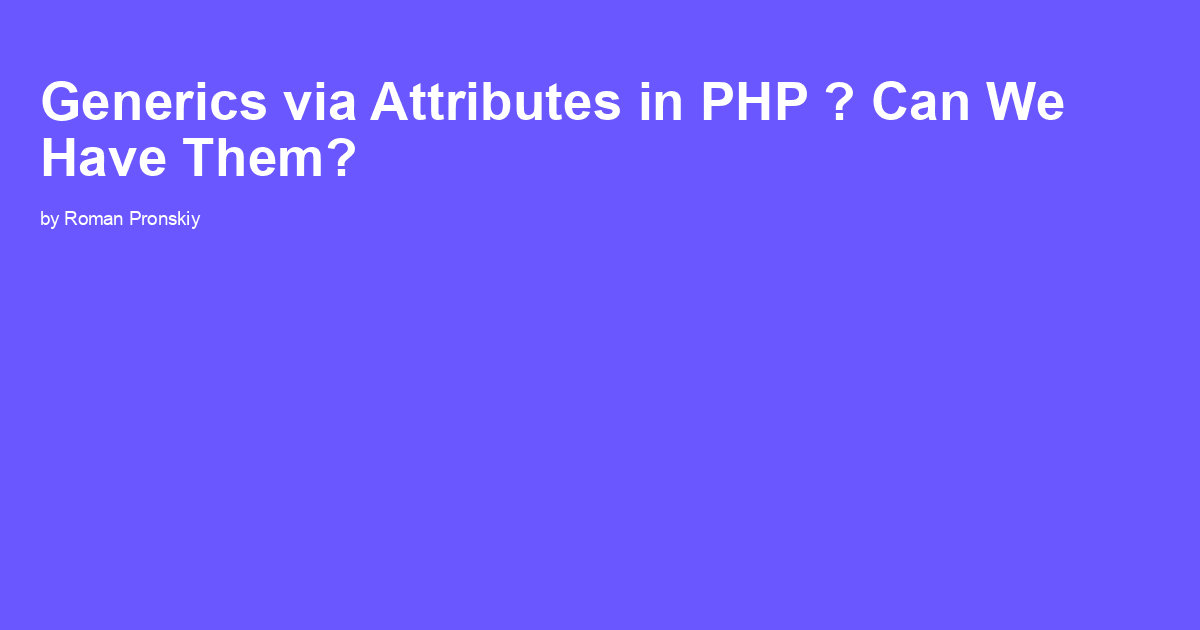
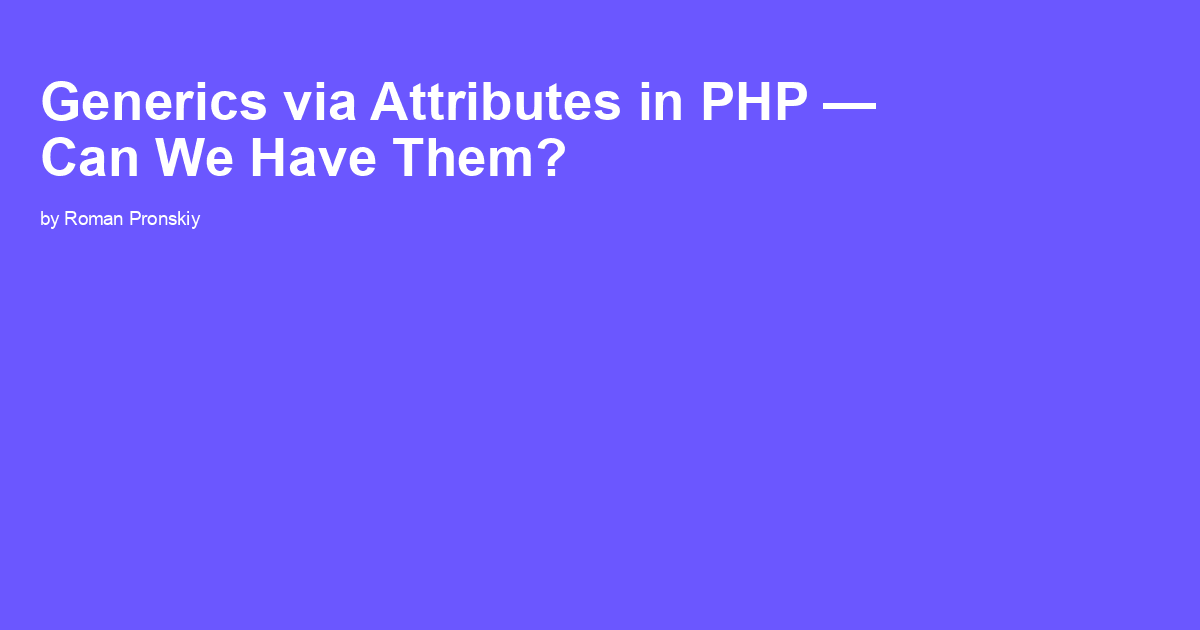
deploy: 6f489c3c9769b9b55b96fd63b69dfb2871d9f009

Changed region(s): [[0.0925, 0.2111, 0.4933, 0.3016], [0.6783, 0.1206, 0.8942, 0.2111], [0.0308, 0.2111, 0.0617, 0.3016]]

diff --git a/assets/css/app.css b/assets/css/app.css
@@ -1,1 +1,1 @@
-/*! tailwindcss v3.0.24 | MIT License | https://tailwindcss.com*/*,:after,:before{box-sizing:border-box;border:0 solid #e5e7eb}:after,:before{--tw-content:""}html{line-height:1.5;-webkit-text-size-adjust:100%;-moz-tab-size:4;-o-tab-size:4;tab-size:4;font-family:ui-sans-serif,system-ui,-apple-system,BlinkMacSystemFont,Segoe UI,Roboto,Helvetica Neue,Arial,Noto Sans,sans-serif,Apple Color Emoji,Segoe UI Emoji,Segoe UI Symbol,Noto Color Emoji}body{margin:0;line-height:inherit}hr{height:0;color:inherit;border-top-width:1px}abbr:where([title]){-webkit-text-decoration:underline dotted;text-decoration:underline dotted}h1,h2,h3,h4,h5,h6{font-size:inherit;font-weight:inherit}a{color:inherit;text-decoration:inherit}b,strong{font-weight:bolder}code,kbd,pre,samp{font-family:JetBrainsMono,Menlo,Monaco,Consolas,Liberation Mono,Courier New,monospace;font-size:1em}small{font-size:80%}sub,sup{font-size:75%;line-height:0;position:relative;vertical-align:initial}sub{bottom:-.25em}sup{top:-.5em}table{text-indent:0;border-color:inherit;border-collapse:collapse}button,input,optgroup,select,textarea{font-family:inherit;font-size:100%;line-height:inherit;color:inherit;margin:0;padding:0}button,select{text-transform:none}[type=button],[type=reset],[type=submit],button{-webkit-appearance:button;background-color:initial;background-image:none}:-moz-focusring{outline:auto}:-moz-ui-invalid{box-shadow:none}progress{vertical-align:initial}::-webkit-inner-spin-button,::-webkit-outer-spin-button{height:auto}[type=search]{-webkit-appearance:textfield;outline-offset:-2px}::-webkit-search-decoration{-webkit-appearance:none}::-webkit-file-upload-button{-webkit-appearance:button;font:inherit}summary{display:list-item}blockquote,dd,dl,figure,h1,h2,h3,h4,h5,h6,hr,p,pre{margin:0}fieldset{margin:0}fieldset,legend{padding:0}menu,ol,ul{list-style:none;margin:0;padding:0}textarea{resize:vertical}input::-moz-placeholder,textarea::-moz-placeholder{opacity:1;color:#9ca3af}input:-ms-input-placeholder,textarea:-ms-input-placeholder{opacity:1;color:#9ca3af}input::placeholder,textarea::placeholder{opacity:1;color:#9ca3af}[role=button],button{cursor:pointer}:disabled{cursor:default}audio,canvas,embed,iframe,img,object,svg,video{display:block;vertical-align:middle}img,video{max-width:100%;height:auto}[hidden]{display:none}body{box-sizing:border-box;font-family:ui-sans-serif,system-ui,-apple-system,BlinkMacSystemFont,Segoe UI,Roboto,Helvetica Neue,Arial,Noto Sans,sans-serif,Apple Color Emoji,Segoe UI Emoji,Segoe UI Symbol,Noto Color Emoji;--tw-text-opacity:1;color:rgb(82 82 91/var(--tw-text-opacity))}html{min-height:100vh}h1,h2,h3,h4{margin-bottom:2rem;margin-top:2rem;--tw-text-opacity:1;color:rgb(39 39 42/var(--tw-text-opacity))}h1{font-size:3rem;line-height:1.25}h1,h2{text-align:center;font-weight:700}h2{font-size:1.875rem;line-height:2.25rem}h3{font-size:1.5rem;line-height:2rem}h3,h4{font-weight:700}h4{font-size:1.25rem;line-height:1.75rem}ol,p,ul{padding-bottom:2rem}li,p{font-size:1.2rem;font-weight:400;line-height:1.625;--tw-text-opacity:1;color:rgb(39 39 42/var(--tw-text-opacity))}ul{list-style-type:disc}ol,ul{margin-bottom:1rem;margin-left:1.25rem;list-style-position:outside}ol{list-style-type:decimal}blockquote{--tw-bg-opacity:1;background-color:rgb(254 252 232/var(--tw-bg-opacity))}blockquote p{padding:1rem 1rem 1rem 2rem}a{--tw-text-opacity:1;color:rgb(37 99 235/var(--tw-text-opacity));-webkit-text-decoration-line:underline;text-decoration-line:underline}a:hover,a:visited:hover{--tw-text-opacity:1;color:rgb(161 161 170/var(--tw-text-opacity))}figure{margin-left:auto;margin-right:auto;align-content:center;text-align:center}figure img{display:inline-block}figcaption,figcaption a{--tw-text-opacity:1;color:rgb(161 161 170/var(--tw-text-opacity))}code,figure,iframe{margin-bottom:3rem}*,:after,:before{--tw-translate-x:0;--tw-translate-y:0;--tw-rotate:0;--tw-skew-x:0;--tw-skew-y:0;--tw-scale-x:1;--tw-scale-y:1;--tw-pan-x: ;--tw-pan-y: ;--tw-pinch-zoom: ;--tw-scroll-snap-strictness:proximity;--tw-ordinal: ;--tw-slashed-zero: ;--tw-numeric-figure: ;--tw-numeric-spacing: ;--tw-numeric-fraction: ;--tw-ring-inset: ;--tw-ring-offset-width:0px;--tw-ring-offset-color:#fff;--tw-ring-color:#3b82f680;--tw-ring-offset-shadow:0 0 #0000;--tw-ring-shadow:0 0 #0000;--tw-shadow:0 0 #0000;--tw-shadow-colored:0 0 #0000;--tw-blur: ;--tw-brightness: ;--tw-contrast: ;--tw-grayscale: ;--tw-hue-rotate: ;--tw-invert: ;--tw-saturate: ;--tw-sepia: ;--tw-drop-shadow: ;--tw-backdrop-blur: ;--tw-backdrop-brightness: ;--tw-backdrop-contrast: ;--tw-backdrop-grayscale: ;--tw-backdrop-hue-rotate: ;--tw-backdrop-invert: ;--tw-backdrop-opacity: ;--tw-backdrop-saturate: ;--tw-backdrop-sepia: }.container{width:100%}@media (min-width:640px){.container{max-width:640px}}@media (min-width:768px){.container{max-width:768px}}@media (min-width:1024px){.container{max-width:1024px}}@media (min-width:1280px){.container{max-width:1280px}}.nav-org{color:#0f172ab3}.nav-org:after{margin-left:.125rem;margin-right:.125rem;transition-duration:.3s;--tw-content:"\2197";content:var(--tw-content)}.nav-org:hover{border-bottom-width:1px;border-style:solid;--tw-border-opacity:1;border-color:rgb(15 23 42/var(--tw-border-opacity));-webkit-text-decoration-line:none;text-decoration-line:none}.nav-org:hover,.nav-org:hover:after{--tw-text-opacity:1;color:rgb(15 23 42/var(--tw-text-opacity))}.nav-org:hover:after{margin-left:.25rem;margin-right:0;content:var(--tw-content)}.-mx-2{margin-left:-.5rem;margin-right:-.5rem}.mx-2{margin-left:.5rem;margin-right:.5rem}.my-5{margin-top:1.25rem;margin-bottom:1.25rem}.mb-16{margin-bottom:4rem}.mb-4{margin-bottom:1rem}.mb-1{margin-bottom:.25rem}.mb-2{margin-bottom:.5rem}.mb-5{margin-bottom:1.25rem}.mb-8{margin-bottom:2rem}.mt-3{margin-top:.75rem}.mt-24{margin-top:6rem}.block{display:block}.flex{display:flex}.min-h-\[100vh\]{min-height:100vh}.w-full{width:100%}.w-1\/2{width:50%}.min-w-\[320px\]{min-width:320px}.max-w-2xl{max-width:42rem}.max-w-3xl{max-width:48rem}.flex-row{flex-direction:row}.flex-col{flex-direction:column}.justify-center{justify-content:center}.justify-between{justify-content:space-between}.space-x-1>:not([hidden])~:not([hidden]){--tw-space-x-reverse:0;margin-right:calc(.25rem*var(--tw-space-x-reverse));margin-left:calc(.25rem*(1 - var(--tw-space-x-reverse)))}.rounded{border-radius:.25rem}.border{border-width:1px}.border-t{border-top-width:1px}.bg-white{--tw-bg-opacity:1;background-color:rgb(255 255 255/var(--tw-bg-opacity))}.bg-\[\#7f52ff\]{--tw-bg-opacity:1;background-color:rgb(127 82 255/var(--tw-bg-opacity))}.p-2{padding:.5rem}.px-4{padding-left:1rem;padding-right:1rem}.px-2{padding-left:.5rem;padding-right:.5rem}.py-1{padding-top:.25rem;padding-bottom:.25rem}.pt-4{padding-top:1rem}.pt-5{padding-top:1.25rem}.text-center{text-align:center}.text-justify{text-align:justify}.text-xs{font-size:.75rem;line-height:1rem}.text-sm{font-size:.875rem;line-height:1.25rem}.text-base{font-size:1.2rem}.font-medium{font-weight:500}.font-bold{font-weight:700}.font-normal{font-weight:400}.\!text-white{--tw-text-opacity:1!important;color:rgb(255 255 255/var(--tw-text-opacity))!important}.text-gray-600{--tw-text-opacity:1;color:rgb(75 85 99/var(--tw-text-opacity))}.text-blue-500{--tw-text-opacity:1;color:rgb(59 130 246/var(--tw-text-opacity))}.no-underline{-webkit-text-decoration-line:none;text-decoration-line:none}.transition-all{transition-property:all;transition-timing-function:cubic-bezier(.4,0,.2,1);transition-duration:.15s}@font-face{font-family:JetBrainsMono;src:url(../fonts/JetBrainsMono-Regular.woff2)}:target{scroll-margin-top:64px}:target:before{content:"";display:block;margin-top:-64px;height:64px;width:1px}.footer-link{background-image:linear-gradient(180deg,#fff 100%,#0000 0);background-size:auto 0;background-repeat:repeat-x;transition:background-size .3s,color .3s}.footer-link:hover{background-size:auto calc(100% + 4px)}footer>p,footer>ul{padding:0}code{line-height:normal;background:#87837826;color:#eb5757;border-radius:3px;font-size:85%;padding:.2em .4em}.hover\:border-\[rgba\(127\2c 82\2c 255\2c \.8\)\]:hover{border-color:#7f52ffcc}.hover\:border-\[\#7f52ff\]:hover{--tw-border-opacity:1;border-color:rgb(127 82 255/var(--tw-border-opacity))}.hover\:bg-\[rgba\(127\2c 82\2c 255\2c \.8\)\]:hover{background-color:#7f52ffcc}@media (min-width:768px){.md\:px-0{padding-left:0;padding-right:0}}
+/*! tailwindcss v3.0.24 | MIT License | https://tailwindcss.com*/*,:after,:before{box-sizing:border-box;border:0 solid #e5e7eb}:after,:before{--tw-content:""}html{line-height:1.5;-webkit-text-size-adjust:100%;-moz-tab-size:4;-o-tab-size:4;tab-size:4;font-family:ui-sans-serif,system-ui,-apple-system,BlinkMacSystemFont,Segoe UI,Roboto,Helvetica Neue,Arial,Noto Sans,sans-serif,Apple Color Emoji,Segoe UI Emoji,Segoe UI Symbol,Noto Color Emoji}body{margin:0;line-height:inherit}hr{height:0;color:inherit;border-top-width:1px}abbr:where([title]){-webkit-text-decoration:underline dotted;text-decoration:underline dotted}h1,h2,h3,h4,h5,h6{font-size:inherit;font-weight:inherit}a{color:inherit;text-decoration:inherit}b,strong{font-weight:bolder}code,kbd,pre,samp{font-family:JetBrainsMono,Menlo,Monaco,Consolas,Liberation Mono,Courier New,monospace;font-size:1em}small{font-size:80%}sub,sup{font-size:75%;line-height:0;position:relative;vertical-align:initial}sub{bottom:-.25em}sup{top:-.5em}table{text-indent:0;border-color:inherit;border-collapse:collapse}button,input,optgroup,select,textarea{font-family:inherit;font-size:100%;line-height:inherit;color:inherit;margin:0;padding:0}button,select{text-transform:none}[type=button],[type=reset],[type=submit],button{-webkit-appearance:button;background-color:initial;background-image:none}:-moz-focusring{outline:auto}:-moz-ui-invalid{box-shadow:none}progress{vertical-align:initial}::-webkit-inner-spin-button,::-webkit-outer-spin-button{height:auto}[type=search]{-webkit-appearance:textfield;outline-offset:-2px}::-webkit-search-decoration{-webkit-appearance:none}::-webkit-file-upload-button{-webkit-appearance:button;font:inherit}summary{display:list-item}blockquote,dd,dl,figure,h1,h2,h3,h4,h5,h6,hr,p,pre{margin:0}fieldset{margin:0}fieldset,legend{padding:0}menu,ol,ul{list-style:none;margin:0;padding:0}textarea{resize:vertical}input::-moz-placeholder,textarea::-moz-placeholder{opacity:1;color:#9ca3af}input:-ms-input-placeholder,textarea:-ms-input-placeholder{opacity:1;color:#9ca3af}input::placeholder,textarea::placeholder{opacity:1;color:#9ca3af}[role=button],button{cursor:pointer}:disabled{cursor:default}audio,canvas,embed,iframe,img,object,svg,video{display:block;vertical-align:middle}img,video{max-width:100%;height:auto}[hidden]{display:none}body{box-sizing:border-box;font-family:ui-sans-serif,system-ui,-apple-system,BlinkMacSystemFont,Segoe UI,Roboto,Helvetica Neue,Arial,Noto Sans,sans-serif,Apple Color Emoji,Segoe UI Emoji,Segoe UI Symbol,Noto Color Emoji;--tw-text-opacity:1;color:rgb(82 82 91/var(--tw-text-opacity))}html{min-height:100vh}h1,h2,h3,h4{margin-bottom:2rem;margin-top:2rem;--tw-text-opacity:1;color:rgb(39 39 42/var(--tw-text-opacity))}h1{font-size:3rem;line-height:1.25}h1,h2{text-align:center;font-weight:700}h2{margin-top:4rem;font-size:1.875rem;line-height:2.25rem}h3{font-size:1.5rem;line-height:2rem}h3,h4{font-weight:700}h4{font-size:1.25rem;line-height:1.75rem}ol,p,ul{padding-bottom:2rem}li,p{font-size:1.2rem;font-weight:400;line-height:1.625;--tw-text-opacity:1;color:rgb(39 39 42/var(--tw-text-opacity))}ul{list-style-type:disc}ol,ul{margin-bottom:1rem;margin-left:1.25rem;list-style-position:outside}ol{list-style-type:decimal}blockquote{--tw-bg-opacity:1;background-color:rgb(254 252 232/var(--tw-bg-opacity))}blockquote p{padding:1rem 1rem 1rem 2rem}a{--tw-text-opacity:1;color:rgb(37 99 235/var(--tw-text-opacity));-webkit-text-decoration-line:underline;text-decoration-line:underline}a:hover,a:visited:hover{--tw-text-opacity:1;color:rgb(161 161 170/var(--tw-text-opacity))}figure{margin-left:auto;margin-right:auto;align-content:center;text-align:center}figure img{display:inline-block}figcaption,figcaption a{--tw-text-opacity:1;color:rgb(161 161 170/var(--tw-text-opacity))}code,figure,iframe{margin-bottom:3rem}*,:after,:before{--tw-translate-x:0;--tw-translate-y:0;--tw-rotate:0;--tw-skew-x:0;--tw-skew-y:0;--tw-scale-x:1;--tw-scale-y:1;--tw-pan-x: ;--tw-pan-y: ;--tw-pinch-zoom: ;--tw-scroll-snap-strictness:proximity;--tw-ordinal: ;--tw-slashed-zero: ;--tw-numeric-figure: ;--tw-numeric-spacing: ;--tw-numeric-fraction: ;--tw-ring-inset: ;--tw-ring-offset-width:0px;--tw-ring-offset-color:#fff;--tw-ring-color:#3b82f680;--tw-ring-offset-shadow:0 0 #0000;--tw-ring-shadow:0 0 #0000;--tw-shadow:0 0 #0000;--tw-shadow-colored:0 0 #0000;--tw-blur: ;--tw-brightness: ;--tw-contrast: ;--tw-grayscale: ;--tw-hue-rotate: ;--tw-invert: ;--tw-saturate: ;--tw-sepia: ;--tw-drop-shadow: ;--tw-backdrop-blur: ;--tw-backdrop-brightness: ;--tw-backdrop-contrast: ;--tw-backdrop-grayscale: ;--tw-backdrop-hue-rotate: ;--tw-backdrop-invert: ;--tw-backdrop-opacity: ;--tw-backdrop-saturate: ;--tw-backdrop-sepia: }.container{width:100%}@media (min-width:640px){.container{max-width:640px}}@media (min-width:768px){.container{max-width:768px}}@media (min-width:1024px){.container{max-width:1024px}}@media (min-width:1280px){.container{max-width:1280px}}.nav-org{color:#0f172ab3}.nav-org:after{margin-left:.125rem;margin-right:.125rem;transition-duration:.3s;--tw-content:"\2197";content:var(--tw-content)}.nav-org:hover{border-bottom-width:1px;border-style:solid;--tw-border-opacity:1;border-color:rgb(15 23 42/var(--tw-border-opacity));-webkit-text-decoration-line:none;text-decoration-line:none}.nav-org:hover,.nav-org:hover:after{--tw-text-opacity:1;color:rgb(15 23 42/var(--tw-text-opacity))}.nav-org:hover:after{margin-left:.25rem;margin-right:0;content:var(--tw-content)}.-mx-2{margin-left:-.5rem;margin-right:-.5rem}.mx-2{margin-left:.5rem;margin-right:.5rem}.my-5{margin-top:1.25rem;margin-bottom:1.25rem}.mb-16{margin-bottom:4rem}.mb-4{margin-bottom:1rem}.mb-1{margin-bottom:.25rem}.mb-2{margin-bottom:.5rem}.mb-5{margin-bottom:1.25rem}.mb-8{margin-bottom:2rem}.mt-3{margin-top:.75rem}.mt-24{margin-top:6rem}.block{display:block}.flex{display:flex}.min-h-\[100vh\]{min-height:100vh}.w-full{width:100%}.w-1\/2{width:50%}.min-w-\[320px\]{min-width:320px}.max-w-2xl{max-width:42rem}.max-w-3xl{max-width:48rem}.flex-row{flex-direction:row}.flex-col{flex-direction:column}.justify-center{justify-content:center}.justify-between{justify-content:space-between}.space-x-1>:not([hidden])~:not([hidden]){--tw-space-x-reverse:0;margin-right:calc(.25rem*var(--tw-space-x-reverse));margin-left:calc(.25rem*(1 - var(--tw-space-x-reverse)))}.rounded{border-radius:.25rem}.border{border-width:1px}.border-t{border-top-width:1px}.bg-white{--tw-bg-opacity:1;background-color:rgb(255 255 255/var(--tw-bg-opacity))}.bg-\[\#7f52ff\]{--tw-bg-opacity:1;background-color:rgb(127 82 255/var(--tw-bg-opacity))}.p-2{padding:.5rem}.px-4{padding-left:1rem;padding-right:1rem}.px-2{padding-left:.5rem;padding-right:.5rem}.py-1{padding-top:.25rem;padding-bottom:.25rem}.pt-4{padding-top:1rem}.pt-5{padding-top:1.25rem}.text-center{text-align:center}.text-justify{text-align:justify}.text-xs{font-size:.75rem;line-height:1rem}.text-sm{font-size:.875rem;line-height:1.25rem}.text-base{font-size:1.2rem}.font-medium{font-weight:500}.font-bold{font-weight:700}.font-normal{font-weight:400}.\!text-white{--tw-text-opacity:1!important;color:rgb(255 255 255/var(--tw-text-opacity))!important}.text-gray-600{--tw-text-opacity:1;color:rgb(75 85 99/var(--tw-text-opacity))}.text-blue-500{--tw-text-opacity:1;color:rgb(59 130 246/var(--tw-text-opacity))}.no-underline{-webkit-text-decoration-line:none;text-decoration-line:none}.transition-all{transition-property:all;transition-timing-function:cubic-bezier(.4,0,.2,1);transition-duration:.15s}@font-face{font-family:JetBrainsMono;src:url(../fonts/JetBrainsMono-Regular.woff2)}:target{scroll-margin-top:64px}:target:before{content:"";display:block;margin-top:-64px;height:64px;width:1px}.footer-link{background-image:linear-gradient(180deg,#fff 100%,#0000 0);background-size:auto 0;background-repeat:repeat-x;transition:background-size .3s,color .3s}.footer-link:hover{background-size:auto calc(100% + 4px)}footer>p,footer>ul{padding:0}code{line-height:normal;background:#87837826;color:#eb5757;border-radius:3px;font-size:85%;padding:.2em .4em}.hover\:border-\[rgba\(127\2c 82\2c 255\2c \.8\)\]:hover{border-color:#7f52ffcc}.hover\:border-\[\#7f52ff\]:hover{--tw-border-opacity:1;border-color:rgb(127 82 255/var(--tw-border-opacity))}.hover\:bg-\[rgba\(127\2c 82\2c 255\2c \.8\)\]:hover{background-color:#7f52ffcc}@media (min-width:768px){.md\:px-0{padding-left:0;padding-right:0}}

diff --git a/blog/generics-via-attributes-in-php/index.html b/blog/generics-via-attributes-in-php/index.html
@@ -1,7 +1,7 @@
 <!DOCTYPE html>
 <html lang="en">
 <head>
-    <title>Generics via Attributes in PHP ? Can We Have Them? &mdash; Roman Pronskiy</title>
+    <title>Generics via Attributes in PHP &amp;mdash; Can We Have Them? &mdash; Roman Pronskiy</title>
     <meta name="description" content="Roman Pronskiy">
     <meta charset="utf-8">
     <meta name="theme-color" content="#ffffff">
@@ -17,14 +17,14 @@
 
     <meta property="og:url" content="https://pronskiy.com/blog/generics-via-attributes-in-php/">
     <meta property="og:type" content="website">
-    <meta property="og:title" content="Generics via Attributes in PHP ? Can We Have Them?">
+    <meta property="og:title" content="Generics via Attributes in PHP &mdash; Can We Have Them?">
     <meta property="og:description" content="Roman Pronskiy &mdash;  ">
     <meta property="og:image" content="https://pronskiy.com/assets/share/2022-10-31-generics-via-attributes-in-php.png">
 
     <meta name="twitter:card" content="summary_large_image">
     <meta property="twitter:domain" content="https://pronskiy.com">
     <meta property="twitter:url" content="https://pronskiy.com/blog/generics-via-attributes-in-php/">
-    <meta name="twitter:title" content="Generics via Attributes in PHP ? Can We Have Them?">
+    <meta name="twitter:title" content="Generics via Attributes in PHP &mdash; Can We Have Them?">
     <meta name="twitter:description" content="Roman Pronskiy">
     <meta name="twitter:image" content="https://pronskiy.com/assets/share/2022-10-31-generics-via-attributes-in-php.png">
 
@@ -41,7 +41,7 @@
     <main class="flex flex-row justify-center min-w-[320px] min-h-[100vh] w-full pt-4">
     <article class="max-w-2xl w-full bg-white px-4 md:px-0">
         <header class="mb-8">
-            <h1 class="">Generics via Attributes in PHP ? Can We Have Them?</h1>
+            <h1 class="">Generics via Attributes in PHP &mdash; Can We Have Them?</h1>
 
                         <div class="text-s text-center">
 				Published on <span>Oct 31, 2022</span>
@@ -189,7 +189,7 @@ class Stack
 
 <p>That means you can have early runtime checks in your local and test environments. For production you can disable such runtime checks and get performance boost there.</p>
 
-<h2 id="static-analysis-poc-wip">Static Analysis PoC (WIP)</h2>
+<h2 id="%F0%9F%9A%A7-static-analysis-poc">🚧 Static Analysis PoC</h2>
 
 <p><strike>Here is a fork of Nikita's PHP parser that demonstrates this concept. And here is the PHPStan fork with the ability to use this syntax.</strike></p>
 

diff --git a/blog/index.html b/blog/index.html
@@ -45,7 +45,7 @@
 
                 <section class="mb-4">
             <header>
-                <h4 class="mb-1"><a href="https://pronskiy.com/blog/generics-via-attributes-in-php/">Generics via Attributes in PHP ? Can We Have Them?</a></h4>
+                <h4 class="mb-1"><a href="https://pronskiy.com/blog/generics-via-attributes-in-php/">Generics via Attributes in PHP &mdash; Can We Have Them?</a></h4>
 								<div class="text-xs mb-2">
 					Published on <span>Oct 31, 2022</span>
 					by <a href="https://twitter.com/pronskiy">Roman Pronskiy</a>
